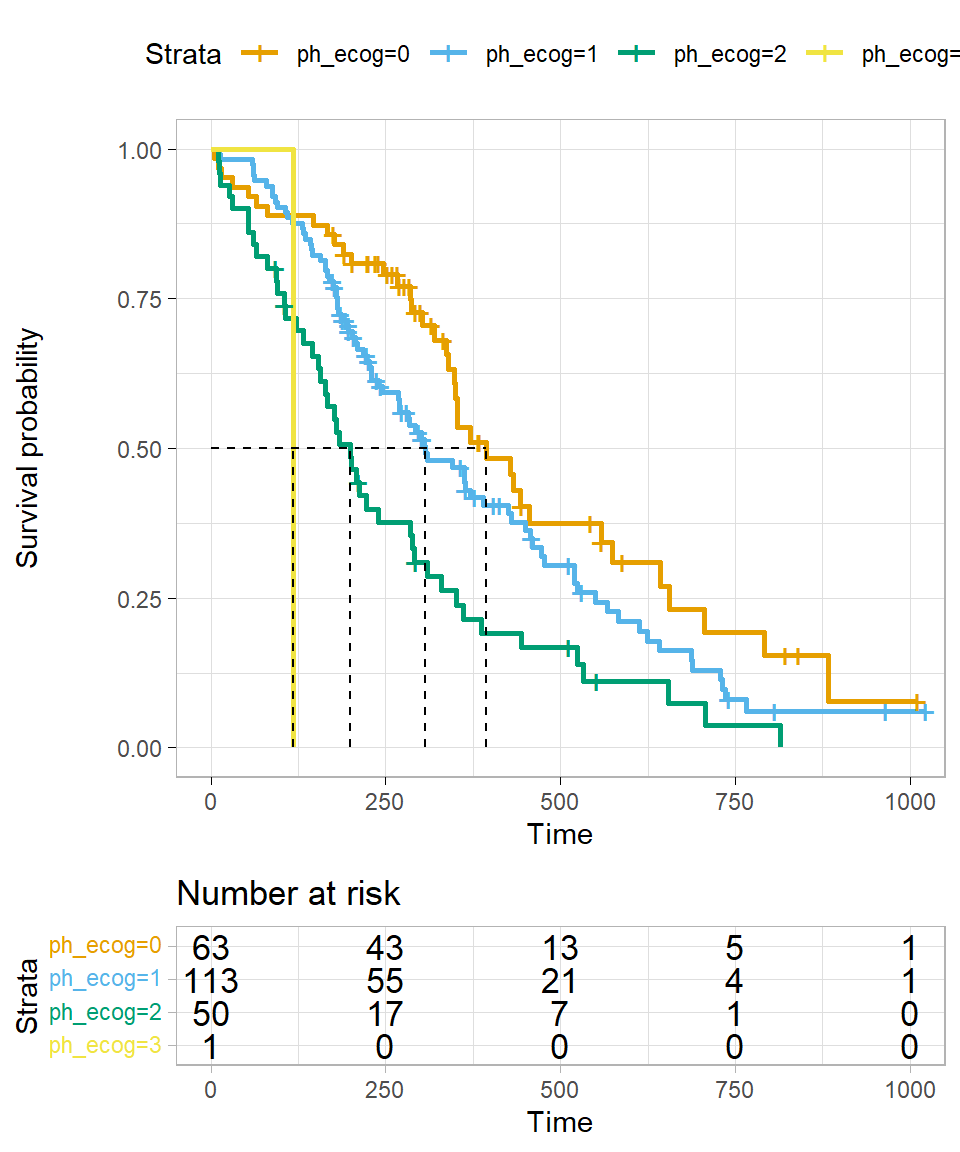
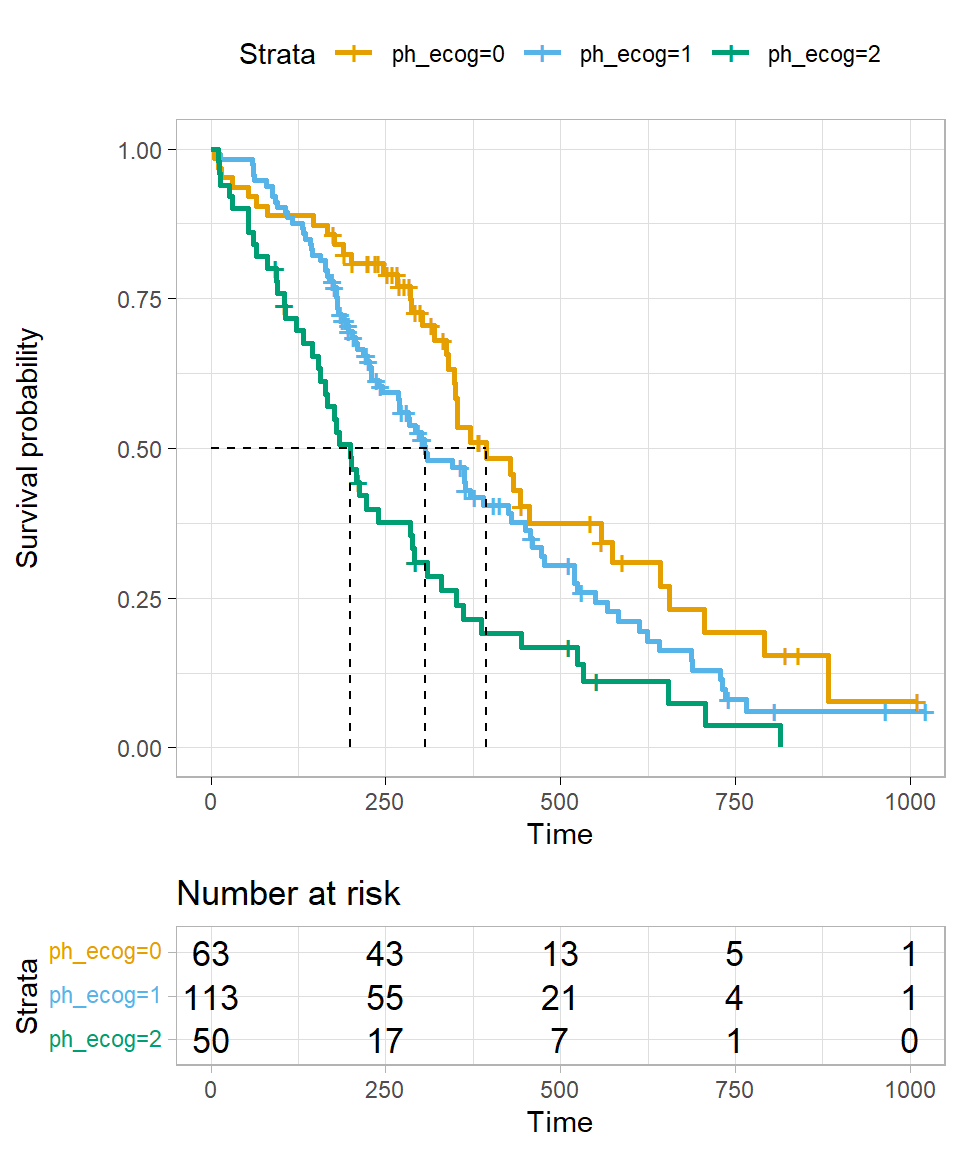
added text

diff --git a/docs/stat-modeling-survival.html b/docs/stat-modeling-survival.html
@@ -622,7 +622,7 @@ div.csl-indent {
 </header><div class="cell">
 
 </div>
-<p><em>Version vom März 27, 2023 um 15:20:42</em></p>
+<p><em>Version vom März 27, 2023 um 15:50:34</em></p>
 <div class="quarto-figure quarto-figure-center">
 <figure class="figure"><p><img src="images/caution.png" class="img-fluid figure-img" style="width:50.0%"></p>
 </figure>
@@ -1287,65 +1287,97 @@ Nur kategoriale Variablen in einer Kaplan Meier Kurve
 </div>
 <p>Wir können nur kategoriale Variablen in einer Kaplan Meier Kurve darstellen. Das heißt, wir müssen alle unser <span class="math inline">\(X\)</span>, die wir haben, in Variablen mit Kategorien umwandeln. Wenn du also in deinen Daten eine Spalte für das Gewicht in kg hast, dann musst du dir überlegen, wie du diese Werte in Kategorien änderst. Eine beliebte Variante ist, dass du zwei Gruppen bildest. Einmal die Patienten, die schwerer sind als der Median des Körpergewichts und einmal eine Gruppe für die Patienten, die leichter sind als der Median des Körpergewichts. Die Kategorisierung von Variablen ist faktisch ein eigenes Problem und lässt sich ohne den biologischen Hintergrund eigentlich nicht sauber durchführen. Daher werden in klinischen Studien oder Experimenten die Daten gleich in Kategorien erhoben. Daher gibt es vorab klare Kriterien in welcher Gewichtsklasse oder Altersklasse ein Patient landen wird. Das Gleiche gilt dann auch für andere kontinuierlichen Variablen.</p>
 <p>Ein häufiger Fehler bei der Betrachtung der Kaplan Meier Kurve ist diese als die simple lineare Regression der Überlebenszeitanalyse anzusehen. Wir können zwar mit der Kaplan Meier Kurve immer nur <em>ein</em> <span class="math inline">\(X\)</span> betrachten aber der Algorithmus basiert auf dem <span class="math inline">\(\mathcal{X}^2\)</span>-Test und hat nichts mit einer Regression zu tun. Daher <em>kann</em> es sein, dass du unterschiedliche Ergebnisse in der Visualisierung mit Kaplan Meier Kurven und dann der Analyse mit dem Cox Proportional-Hazards Modell erhälst.</p>
+<p>In R nutzen wir das Paket <code>survminer</code> und die Funktion <code>ggsurvplot()</code> für die Visualisierung der Kaplan Meier Kurven.</p>
 <section id="dodos" class="level3" data-number="47.4.1"><h3 data-number="47.4.1" class="anchored" data-anchor-id="dodos">
 <span class="header-section-number">47.4.1</span> Dodos</h3>
+<p>Um eine Kaplan Meier Kurve zeichnen zu können, brauchen wie als erstes die Funktion <code>survfit()</code>. Mit der Funktion <code>survfit()</code> können wir zum einen das mediane Überleben berechnen und alle Informationen erhalten, die wir brauchen um die Kaplan Meier Kurve zu plotten.</p>
 <div class="cell">
 <div class="sourceCode" id="cb7"><pre class="downlit sourceCode r code-with-copy"><code class="sourceCode R"><span><span class="va">trt_fit</span> <span class="op">&lt;-</span> <span class="fu">survfit</span><span class="op">(</span><span class="fu">Surv</span><span class="op">(</span><span class="va">dol</span>, <span class="va">death</span><span class="op">)</span> <span class="op">~</span> <span class="va">trt</span>, data <span class="op">=</span> <span class="va">dodo_tbl</span><span class="op">)</span></span></code><button title="In die Zwischenablage kopieren" class="code-copy-button"><i class="bi"></i></button></pre></div>
 </div>
+<p>Wir können einmal das Objekt <code>trt_fit</code> uns anschauen.</p>
+<div class="cell">
+<div class="sourceCode" id="cb8"><pre class="downlit sourceCode r code-with-copy"><code class="sourceCode R"><span><span class="va">trt_fit</span></span></code><button title="In die Zwischenablage kopieren" class="code-copy-button"><i class="bi"></i></button></pre></div>
+<div class="cell-output cell-output-stdout">
+<pre><code>Call: survfit(formula = Surv(dol, death) ~ trt, data = dodo_tbl)
+
+              n events median 0.95LCL 0.95UCL
+trt=clipped 250     87     NA      NA      NA
+trt=none    250    165   44.5      40      49</code></pre>
+</div>
+</div>
+<p>Zum einen fallen uns die <code>NA</code>’s in der Wiedergabe des Fits der Überlebenszeit auf. Wenn wir uns die <a href="#fig-surv-1">Abbildung&nbsp;<span>47.1</span></a> einmal anschauen, dann wird das Problem etwas klarer. Wir sehen nämlich, dass wir bei den geklippten Tieren gar nicht so weit runter kommen mit den toten Tieren, dass wir das mediane Überleben berechnen könnten. Nicht immer können wir auch alle statistischen Methoden auf alle Fragestellungen anwenden. Insbesondere wenn nicht genug Ereignisse wie in diesem Beispiel auftreten.</p>
 <div class="cell" data-layout-align="center">
-<div class="sourceCode" id="cb8"><pre class="downlit sourceCode r code-with-copy"><code class="sourceCode R"><span><span class="fu">ggsurvplot</span><span class="op">(</span><span class="va">trt_fit</span>, data <span class="op">=</span> <span class="va">dodo_tbl</span>, risk.table <span class="op">=</span> <span class="cn">TRUE</span>,</span>
+<div class="sourceCode" id="cb10"><pre class="downlit sourceCode r code-with-copy"><code class="sourceCode R"><span><span class="fu">ggsurvplot</span><span class="op">(</span><span class="va">trt_fit</span>, </span>
+<span>           data <span class="op">=</span> <span class="va">dodo_tbl</span>, </span>
+<span>           risk.table <span class="op">=</span> <span class="cn">TRUE</span>,</span>
 <span>           surv.median.line <span class="op">=</span> <span class="st">"hv"</span>,</span>
 <span>           ggtheme <span class="op">=</span> <span class="fu">theme_light</span><span class="op">(</span><span class="op">)</span>,</span>
 <span>           palette <span class="op">=</span> <span class="va">cbbPalette</span><span class="op">[</span><span class="fl">2</span><span class="op">:</span><span class="fl">8</span><span class="op">]</span><span class="op">)</span></span></code><button title="In die Zwischenablage kopieren" class="code-copy-button"><i class="bi"></i></button></pre></div>
 <div class="cell-output-display">
 <div id="fig-surv-1" class="quarto-figure quarto-figure-center anchored">
 <figure class="figure"><p><img src="stat-modeling-survival_files/figure-html/fig-surv-1-1.png" class="img-fluid figure-img" width="480"></p>
-<p></p><figcaption class="figure-caption">Abbildung&nbsp;47.1— test.</figcaption><p></p>
+<p></p><figcaption class="figure-caption">Abbildung&nbsp;47.1— Kaplan Meier Kurven für unsere geklippten Dodos. Wir sehen, dass die geklippten Tiere in der Zeit der Versuchsdurchführung garnicht zur Hälfte versterben.</figcaption><p></p>
 </figure>
 </div>
 </div>
 </div>
 </section><section id="fruchtfliegen" class="level3" data-number="47.4.2"><h3 data-number="47.4.2" class="anchored" data-anchor-id="fruchtfliegen">
 <span class="header-section-number">47.4.2</span> Fruchtfliegen</h3>
+<p>Gehen wir einen Schritt weiter und schauen uns das Modell für die Fruchtfliegen an. Hier haben wir eine Behandlung mit zwei Leveln also Gruppen vorliegen. Wir nutzen wieder die Funktion <code>survfit()</code> um einaml unser Modell der Überlebenszeiten zu fitten.</p>
 <div class="cell">
-<div class="sourceCode" id="cb9"><pre class="downlit sourceCode r code-with-copy"><code class="sourceCode R"><span><span class="va">trt_fit</span> <span class="op">&lt;-</span> <span class="fu">survfit</span><span class="op">(</span><span class="fu">Surv</span><span class="op">(</span><span class="va">time</span>, <span class="va">status</span><span class="op">)</span> <span class="op">~</span> <span class="va">trt</span>, data <span class="op">=</span> <span class="va">fruitfly_tbl</span><span class="op">)</span></span></code><button title="In die Zwischenablage kopieren" class="code-copy-button"><i class="bi"></i></button></pre></div>
+<div class="sourceCode" id="cb11"><pre class="downlit sourceCode r code-with-copy"><code class="sourceCode R"><span><span class="va">trt_fit</span> <span class="op">&lt;-</span> <span class="fu">survfit</span><span class="op">(</span><span class="fu">Surv</span><span class="op">(</span><span class="va">time</span>, <span class="va">status</span><span class="op">)</span> <span class="op">~</span> <span class="va">trt</span>, data <span class="op">=</span> <span class="va">fruitfly_tbl</span><span class="op">)</span></span></code><button title="In die Zwischenablage kopieren" class="code-copy-button"><i class="bi"></i></button></pre></div>
 </div>
+<p>Wir erhalten dann folgende Ausgabe des Modells.</p>
+<div class="cell">
+<div class="sourceCode" id="cb12"><pre class="downlit sourceCode r code-with-copy"><code class="sourceCode R"><span><span class="va">trt_fit</span></span></code><button title="In die Zwischenablage kopieren" class="code-copy-button"><i class="bi"></i></button></pre></div>
+<div class="cell-output cell-output-stdout">
+<pre><code>Call: survfit(formula = Surv(time, status) ~ trt, data = fruitfly_tbl)
+
+                n events median 0.95LCL 0.95UCL
+trt=fruitflyEx 50     44     12      10      14
+trt=control    50     49     15      13      17</code></pre>
+</div>
+</div>
+<p>In der <span class="citation" data-cites="trt_fit">(<a href="#ref-trt_fit" role="doc-biblioref"><strong>trt_fit?</strong></a>)</span> sehen wir die Visualisierung des Modells als Kaplan Meier Kurve. In diesem Experiment sterben fast alle Fruchtfliegen im Laufe der Untersuchung. Wir können also einfach das mediane Überleben für beide Gruppen berechnen.</p>
 <div class="cell" data-layout-align="center">
-<div class="sourceCode" id="cb10"><pre class="downlit sourceCode r code-with-copy"><code class="sourceCode R"><span><span class="fu">ggsurvplot</span><span class="op">(</span><span class="va">trt_fit</span>, data <span class="op">=</span> <span class="va">fruitfly_tbl</span>, risk.table <span class="op">=</span> <span class="cn">TRUE</span>,</span>
+<div class="sourceCode" id="cb14"><pre class="downlit sourceCode r code-with-copy"><code class="sourceCode R"><span><span class="fu">ggsurvplot</span><span class="op">(</span><span class="va">trt_fit</span>, data <span class="op">=</span> <span class="va">fruitfly_tbl</span>, risk.table <span class="op">=</span> <span class="cn">TRUE</span>,</span>
 <span>           surv.median.line <span class="op">=</span> <span class="st">"hv"</span>,</span>
 <span>           ggtheme <span class="op">=</span> <span class="fu">theme_light</span><span class="op">(</span><span class="op">)</span>,</span>
 <span>           palette <span class="op">=</span> <span class="va">cbbPalette</span><span class="op">[</span><span class="fl">2</span><span class="op">:</span><span class="fl">8</span><span class="op">]</span><span class="op">)</span></span></code><button title="In die Zwischenablage kopieren" class="code-copy-button"><i class="bi"></i></button></pre></div>
 <div class="cell-output-display">
 <div id="fig-surv-2" class="quarto-figure quarto-figure-center anchored">
 <figure class="figure"><p><img src="stat-modeling-survival_files/figure-html/fig-surv-2-1.png" class="img-fluid figure-img" width="480"></p>
-<p></p><figcaption class="figure-caption">Abbildung&nbsp;47.2— test.</figcaption><p></p>
+<p></p><figcaption class="figure-caption">Abbildung&nbsp;47.2— Kaplan Meier Kurven für die Fruchtfliegen nach der Behandlung mit einem Pestizid und einer Kontrolle.</figcaption><p></p>
 </figure>
 </div>
 </div>
 </div>
+<p>Nachdem wir die Kaplan Meier Kurven einmal für die Behandlung durchgeführt haben, können wir uns auch anschauen, ob das Überleben der Fruchtfliegen etwas mit dem Gewicht der Fruchtfliegen zu tun hat. Hier können wir <em>nicht</em> auf das Gewicht in der Spalte <code>weight</code> zurückgreifen sondern müssen die Variable <code>weight_bin</code> mit zwei Klassen nehmen.</p>
 <div class="cell">
-<div class="sourceCode" id="cb11"><pre class="downlit sourceCode r code-with-copy"><code class="sourceCode R"><span><span class="va">weight_fit</span> <span class="op">&lt;-</span> <span class="fu">survfit</span><span class="op">(</span><span class="fu">Surv</span><span class="op">(</span><span class="va">time</span>, <span class="va">status</span><span class="op">)</span> <span class="op">~</span> <span class="va">weight_bin</span>, data <span class="op">=</span> <span class="va">fruitfly_tbl</span><span class="op">)</span></span></code><button title="In die Zwischenablage kopieren" class="code-copy-button"><i class="bi"></i></button></pre></div>
+<div class="sourceCode" id="cb15"><pre class="downlit sourceCode r code-with-copy"><code class="sourceCode R"><span><span class="va">weight_fit</span> <span class="op">&lt;-</span> <span class="fu">survfit</span><span class="op">(</span><span class="fu">Surv</span><span class="op">(</span><span class="va">time</span>, <span class="va">status</span><span class="op">)</span> <span class="op">~</span> <span class="va">weight_bin</span>, data <span class="op">=</span> <span class="va">fruitfly_tbl</span><span class="op">)</span></span></code><button title="In die Zwischenablage kopieren" class="code-copy-button"><i class="bi"></i></button></pre></div>
 </div>
+<p>Wir erhalten dann die Kaplan Meier Kurven in der <a href="#fig-surv-3">Abbildung&nbsp;<span>47.3</span></a> zurück. Hier ist es wichtig sich nochmal klar zu machen, dass wir eben nur kategoriale Variablen in einer Kaplan Meier Kurve darstellen können.</p>
 <div class="cell" data-layout-align="center">
-<div class="sourceCode" id="cb12"><pre class="downlit sourceCode r code-with-copy"><code class="sourceCode R"><span><span class="fu">ggsurvplot</span><span class="op">(</span><span class="va">weight_fit</span>, data <span class="op">=</span> <span class="va">fruitfly_tbl</span>, risk.table <span class="op">=</span> <span class="cn">TRUE</span>,</span>
+<div class="sourceCode" id="cb16"><pre class="downlit sourceCode r code-with-copy"><code class="sourceCode R"><span><span class="fu">ggsurvplot</span><span class="op">(</span><span class="va">weight_fit</span>, data <span class="op">=</span> <span class="va">fruitfly_tbl</span>, risk.table <span class="op">=</span> <span class="cn">TRUE</span>,</span>
 <span>           surv.median.line <span class="op">=</span> <span class="st">"hv"</span>,</span>
 <span>           ggtheme <span class="op">=</span> <span class="fu">theme_light</span><span class="op">(</span><span class="op">)</span>,</span>
 <span>           palette <span class="op">=</span> <span class="va">cbbPalette</span><span class="op">[</span><span class="fl">2</span><span class="op">:</span><span class="fl">8</span><span class="op">]</span><span class="op">)</span></span></code><button title="In die Zwischenablage kopieren" class="code-copy-button"><i class="bi"></i></button></pre></div>
 <div class="cell-output-display">
 <div id="fig-surv-3" class="quarto-figure quarto-figure-center anchored">
 <figure class="figure"><p><img src="stat-modeling-survival_files/figure-html/fig-surv-3-1.png" class="img-fluid figure-img" width="480"></p>
-<p></p><figcaption class="figure-caption">Abbildung&nbsp;47.3— test.</figcaption><p></p>
+<p></p><figcaption class="figure-caption">Abbildung&nbsp;47.3— Kaplan Meier Kurven für die Fruchtfliegen nach der Behandlung mit einem Pestizid und einer Kontrolle.</figcaption><p></p>
 </figure>
 </div>
 </div>
 </div>
 </section><section id="lungenkrebs" class="level3" data-number="47.4.3"><h3 data-number="47.4.3" class="anchored" data-anchor-id="lungenkrebs">
 <span class="header-section-number">47.4.3</span> Lungenkrebs</h3>
+<p>Als letztes Beispiel wollen wir uns nochmal den Datensatz <code>lung_tbl</code> anschauen. Zwar ist Lungenkrebs jetzt nichts was Tiere und Pflanzen als eine wichtige Erkrankung haben können, aber der Datensatz wird viel als Beispiel genutzt, so dass ich den Datensatz hier auch nochmal vorstellen möchte. Auch sind teilweise gewisse Schritte von Interesse, die eventuell auch in deiner Tier- oder Mäusestudie von Interesse sein könnten.</p>
 <div class="cell">
-<div class="sourceCode" id="cb13"><pre class="downlit sourceCode r code-with-copy"><code class="sourceCode R"><span><span class="va">null_fit</span> <span class="op">&lt;-</span> <span class="fu">survfit</span><span class="op">(</span><span class="fu">Surv</span><span class="op">(</span><span class="va">time</span>, <span class="va">status</span><span class="op">)</span> <span class="op">~</span> <span class="fl">1</span>, data <span class="op">=</span> <span class="va">lung_tbl</span><span class="op">)</span></span></code><button title="In die Zwischenablage kopieren" class="code-copy-button"><i class="bi"></i></button></pre></div>
+<div class="sourceCode" id="cb17"><pre class="downlit sourceCode r code-with-copy"><code class="sourceCode R"><span><span class="va">null_fit</span> <span class="op">&lt;-</span> <span class="fu">survfit</span><span class="op">(</span><span class="fu">Surv</span><span class="op">(</span><span class="va">time</span>, <span class="va">status</span><span class="op">)</span> <span class="op">~</span> <span class="fl">1</span>, data <span class="op">=</span> <span class="va">lung_tbl</span><span class="op">)</span></span></code><button title="In die Zwischenablage kopieren" class="code-copy-button"><i class="bi"></i></button></pre></div>
 </div>
 <div class="cell">
-<div class="sourceCode" id="cb14"><pre class="downlit sourceCode r code-with-copy"><code class="sourceCode R"><span><span class="va">null_fit</span> <span class="op">%&gt;%</span> </span>
+<div class="sourceCode" id="cb18"><pre class="downlit sourceCode r code-with-copy"><code class="sourceCode R"><span><span class="va">null_fit</span> <span class="op">%&gt;%</span> </span>
 <span>  <span class="fu"><a href="https://rdrr.io/r/base/summary.html">summary</a></span><span class="op">(</span>times <span class="op">=</span> <span class="fl">365.25</span><span class="op">)</span></span></code><button title="In die Zwischenablage kopieren" class="code-copy-button"><i class="bi"></i></button></pre></div>
 <div class="cell-output cell-output-stdout">
 <pre><code>Call: survfit(formula = Surv(time, status) ~ 1, data = lung_tbl)
@@ -1355,7 +1387,7 @@ Nur kategoriale Variablen in einer Kaplan Meier Kurve
 </div>
 </div>
 <div class="cell">
-<div class="sourceCode" id="cb16"><pre class="downlit sourceCode r code-with-copy"><code class="sourceCode R"><span><span class="va">null_fit</span></span></code><button title="In die Zwischenablage kopieren" class="code-copy-button"><i class="bi"></i></button></pre></div>
+<div class="sourceCode" id="cb20"><pre class="downlit sourceCode r code-with-copy"><code class="sourceCode R"><span><span class="va">null_fit</span></span></code><button title="In die Zwischenablage kopieren" class="code-copy-button"><i class="bi"></i></button></pre></div>
 <div class="cell-output cell-output-stdout">
 <pre><code>Call: survfit(formula = Surv(time, status) ~ 1, data = lung_tbl)
 
@@ -1364,7 +1396,7 @@ Nur kategoriale Variablen in einer Kaplan Meier Kurve
 </div>
 </div>
 <div class="cell" data-layout-align="center">
-<div class="sourceCode" id="cb18"><pre class="downlit sourceCode r code-with-copy"><code class="sourceCode R"><span><span class="fu">ggsurvplot</span><span class="op">(</span><span class="va">null_fit</span>, data <span class="op">=</span> <span class="va">lung_tbl</span>, risk.table <span class="op">=</span> <span class="cn">TRUE</span>,</span>
+<div class="sourceCode" id="cb22"><pre class="downlit sourceCode r code-with-copy"><code class="sourceCode R"><span><span class="fu">ggsurvplot</span><span class="op">(</span><span class="va">null_fit</span>, data <span class="op">=</span> <span class="va">lung_tbl</span>, risk.table <span class="op">=</span> <span class="cn">TRUE</span>,</span>
 <span>           surv.median.line <span class="op">=</span> <span class="st">"hv"</span>,</span>
 <span>           ggtheme <span class="op">=</span> <span class="fu">theme_light</span><span class="op">(</span><span class="op">)</span>,</span>
 <span>           palette <span class="op">=</span> <span class="va">cbbPalette</span><span class="op">[</span><span class="fl">2</span><span class="op">]</span><span class="op">)</span></span></code><button title="In die Zwischenablage kopieren" class="code-copy-button"><i class="bi"></i></button></pre></div>
@@ -1377,10 +1409,25 @@ Nur kategoriale Variablen in einer Kaplan Meier Kurve
 </div>
 </div>
 <div class="cell">
-<div class="sourceCode" id="cb19"><pre class="downlit sourceCode r code-with-copy"><code class="sourceCode R"><span><span class="va">lung_fit</span> <span class="op">&lt;-</span> <span class="fu">survfit</span><span class="op">(</span><span class="fu">Surv</span><span class="op">(</span><span class="va">time</span>, <span class="va">status</span><span class="op">)</span> <span class="op">~</span> <span class="va">ph_ecog</span>, data <span class="op">=</span> <span class="va">lung_tbl</span><span class="op">)</span></span></code><button title="In die Zwischenablage kopieren" class="code-copy-button"><i class="bi"></i></button></pre></div>
+<div class="sourceCode" id="cb23"><pre class="downlit sourceCode r code-with-copy"><code class="sourceCode R"><span><span class="va">lung_tbl</span> <span class="op">%&lt;&gt;%</span> </span>
+<span>  <span class="fu"><a href="https://rdrr.io/r/stats/filter.html">filter</a></span><span class="op">(</span><span class="va">ph_ecog</span> <span class="op">!=</span> <span class="fl">3</span><span class="op">)</span></span></code><button title="In die Zwischenablage kopieren" class="code-copy-button"><i class="bi"></i></button></pre></div>
+</div>
+<div class="cell">
+<div class="sourceCode" id="cb24"><pre class="downlit sourceCode r code-with-copy"><code class="sourceCode R"><span><span class="va">lung_fit</span> <span class="op">&lt;-</span> <span class="fu">survfit</span><span class="op">(</span><span class="fu">Surv</span><span class="op">(</span><span class="va">time</span>, <span class="va">status</span><span class="op">)</span> <span class="op">~</span> <span class="va">ph_ecog</span>, data <span class="op">=</span> <span class="va">lung_tbl</span><span class="op">)</span></span></code><button title="In die Zwischenablage kopieren" class="code-copy-button"><i class="bi"></i></button></pre></div>
+</div>
+<div class="cell">
+<div class="sourceCode" id="cb25"><pre class="downlit sourceCode r code-with-copy"><code class="sourceCode R"><span><span class="va">lung_fit</span></span></code><button title="In die Zwischenablage kopieren" class="code-copy-button"><i class="bi"></i></button></pre></div>
+<div class="cell-output cell-output-stdout">
+<pre><code>Call: survfit(formula = Surv(time, status) ~ ph_ecog, data = lung_tbl)
+
+            n events median 0.95LCL 0.95UCL
+ph_ecog=0  63     37    394     348     574
+ph_ecog=1 113     82    306     268     429
+ph_ecog=2  50     44    199     156     288</code></pre>
+</div>
 </div>
 <div class="cell" data-layout-align="center">
-<div class="sourceCode" id="cb20"><pre class="downlit sourceCode r code-with-copy"><code class="sourceCode R"><span><span class="fu">ggsurvplot</span><span class="op">(</span><span class="va">lung_fit</span>, data <span class="op">=</span> <span class="va">lung_tbl</span>, risk.table <span class="op">=</span> <span class="cn">TRUE</span>,</span>
+<div class="sourceCode" id="cb27"><pre class="downlit sourceCode r code-with-copy"><code class="sourceCode R"><span><span class="fu">ggsurvplot</span><span class="op">(</span><span class="va">lung_fit</span>, data <span class="op">=</span> <span class="va">lung_tbl</span>, risk.table <span class="op">=</span> <span class="cn">TRUE</span>,</span>
 <span>           surv.median.line <span class="op">=</span> <span class="st">"hv"</span>,</span>
 <span>           ggtheme <span class="op">=</span> <span class="fu">theme_light</span><span class="op">(</span><span class="op">)</span>,</span>
 <span>           palette <span class="op">=</span> <span class="va">cbbPalette</span><span class="op">[</span><span class="fl">2</span><span class="op">:</span><span class="fl">8</span><span class="op">]</span><span class="op">)</span></span></code><button title="In die Zwischenablage kopieren" class="code-copy-button"><i class="bi"></i></button></pre></div>
@@ -1393,20 +1440,17 @@ Nur kategoriale Variablen in einer Kaplan Meier Kurve
 </div>
 </div>
 <div class="cell">
-<div class="sourceCode" id="cb21"><pre class="downlit sourceCode r code-with-copy"><code class="sourceCode R"><span><span class="fu">survdiff</span><span class="op">(</span><span class="fu">Surv</span><span class="op">(</span><span class="va">time</span>, <span class="va">status</span><span class="op">)</span> <span class="op">~</span> <span class="va">ph_ecog</span>, data <span class="op">=</span> <span class="va">lung_tbl</span><span class="op">)</span></span></code><button title="In die Zwischenablage kopieren" class="code-copy-button"><i class="bi"></i></button></pre></div>
+<div class="sourceCode" id="cb28"><pre class="downlit sourceCode r code-with-copy"><code class="sourceCode R"><span><span class="fu">survdiff</span><span class="op">(</span><span class="fu">Surv</span><span class="op">(</span><span class="va">time</span>, <span class="va">status</span><span class="op">)</span> <span class="op">~</span> <span class="va">ph_ecog</span>, data <span class="op">=</span> <span class="va">lung_tbl</span><span class="op">)</span></span></code><button title="In die Zwischenablage kopieren" class="code-copy-button"><i class="bi"></i></button></pre></div>
 <div class="cell-output cell-output-stdout">
 <pre><code>Call:
 survdiff(formula = Surv(time, status) ~ ph_ecog, data = lung_tbl)
 
-n=227, 1 Beobachtung als fehlend gelöscht.
-
             N Observed Expected (O-E)^2/E (O-E)^2/V
-ph_ecog=0  63       37   54.153    5.4331    8.2119
-ph_ecog=1 113       82   83.528    0.0279    0.0573
-ph_ecog=2  50       44   26.147   12.1893   14.6491
-ph_ecog=3   1        1    0.172    3.9733    4.0040
+ph_ecog=0  63       37     53.9    5.3014    8.0181
+ph_ecog=1 113       82     83.1    0.0144    0.0295
+ph_ecog=2  50       44     26.0   12.4571   14.9754
 
- Chisq= 22  on 3 degrees of freedom, p= 7e-05 </code></pre>
+ Chisq= 18  on 2 degrees of freedom, p= 1e-04 </code></pre>
 </div>
 </div>
 </section></section><section id="cox-proportional-hazards-modell" class="level2 page-columns page-full" data-number="47.5"><h2 data-number="47.5" class="anchored" data-anchor-id="cox-proportional-hazards-modell">
@@ -1414,8 +1458,9 @@ ph_ecog=3   1        1    0.172    3.9733    4.0040
 
 <div class="no-row-height column-margin column-container"><div class="">
 <p>Auch im Fall des Cox Proportional-Hazards Modells kann ich hier nur eine Übersicht geben. Es findet sich natürlich auch ein Tutorium zum <a href="http://www.sthda.com/english/wiki/cox-proportional-hazards-model">Cox Proportional-Hazards Model Tools</a></p>
-</div></div><div class="cell">
-<div class="sourceCode" id="cb23"><pre class="downlit sourceCode r code-with-copy"><code class="sourceCode R"><span><span class="fu">coxph</span><span class="op">(</span><span class="fu">Surv</span><span class="op">(</span><span class="va">time</span>, <span class="va">status</span><span class="op">)</span> <span class="op">~</span> <span class="va">trt</span> <span class="op">+</span> <span class="va">sex</span> <span class="op">+</span> <span class="va">weight</span>, data <span class="op">=</span> <span class="va">fruitfly_tbl</span><span class="op">)</span> <span class="op">%&gt;%</span> </span>
+</div></div><p><code>coxph()</code></p>
+<div class="cell">
+<div class="sourceCode" id="cb30"><pre class="downlit sourceCode r code-with-copy"><code class="sourceCode R"><span><span class="fu">coxph</span><span class="op">(</span><span class="fu">Surv</span><span class="op">(</span><span class="va">time</span>, <span class="va">status</span><span class="op">)</span> <span class="op">~</span> <span class="va">trt</span> <span class="op">+</span> <span class="va">sex</span> <span class="op">+</span> <span class="va">weight</span>, data <span class="op">=</span> <span class="va">fruitfly_tbl</span><span class="op">)</span> <span class="op">%&gt;%</span> </span>
 <span>  <span class="fu">model_parameters</span><span class="op">(</span><span class="op">)</span></span></code><button title="In die Zwischenablage kopieren" class="code-copy-button"><i class="bi"></i></button></pre></div>
 <div class="cell-output cell-output-stdout">
 <pre><code>Parameter     | Coefficient |   SE |         95% CI |     z |      p
@@ -1426,7 +1471,7 @@ weight        |        0.02 | 0.04 | [-0.05,  0.09] |  0.60 | 0.549 </code></pre
 </div>
 </div>
 <div class="cell">
-<div class="sourceCode" id="cb25"><pre class="downlit sourceCode r code-with-copy"><code class="sourceCode R"><span><span class="fu">coxph</span><span class="op">(</span><span class="fu">Surv</span><span class="op">(</span><span class="va">time</span>, <span class="va">status</span><span class="op">)</span> <span class="op">~</span> <span class="va">trt</span> <span class="op">+</span> <span class="va">sex</span> <span class="op">+</span> <span class="va">weight_bin</span>, data <span class="op">=</span> <span class="va">fruitfly_tbl</span><span class="op">)</span> <span class="op">%&gt;%</span> </span>
+<div class="sourceCode" id="cb32"><pre class="downlit sourceCode r code-with-copy"><code class="sourceCode R"><span><span class="fu">coxph</span><span class="op">(</span><span class="fu">Surv</span><span class="op">(</span><span class="va">time</span>, <span class="va">status</span><span class="op">)</span> <span class="op">~</span> <span class="va">trt</span> <span class="op">+</span> <span class="va">sex</span> <span class="op">+</span> <span class="va">weight_bin</span>, data <span class="op">=</span> <span class="va">fruitfly_tbl</span><span class="op">)</span> <span class="op">%&gt;%</span> </span>
 <span>  <span class="fu">model_parameters</span><span class="op">(</span><span class="op">)</span></span></code><button title="In die Zwischenablage kopieren" class="code-copy-button"><i class="bi"></i></button></pre></div>
 <div class="cell-output cell-output-stdout">
 <pre><code>Parameter        | Coefficient |   SE |         95% CI |     z |      p
